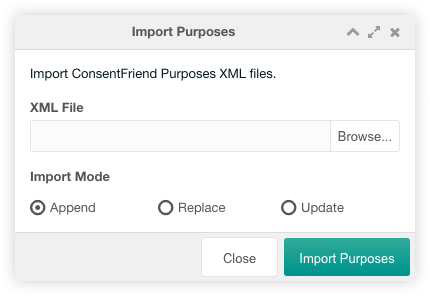
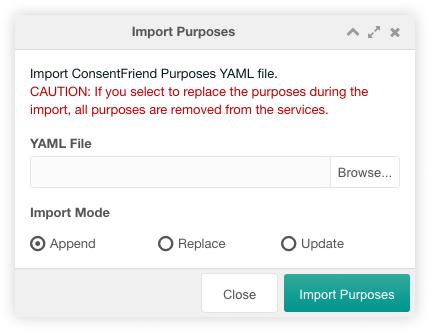
Update docs to 1.3.0

diff --git a/en/02_ConsentFriend/v1/03_Custom_Manager_Page/01_Services.md b/en/02_ConsentFriend/v1/03_Custom_Manager_Page/01_Services.md
@@ -7,13 +7,13 @@ with just a few lines of code.
 
 [![](img/services.png)](img/services.png)
 
-You can create a new service with a click on the create service button on the
+You can create a new service with a click on the New Service button on the
 top left above the services grid.
 
-You can export the services to an xml file with a click on the export services
+You can export the services to a YAML file with a click on the Export Services
 button above the services grid.
 
-You can import a xml file with the services with a click on the import services
+You can import a YAML file with the services with a click on the Import Services
 button above the services grid. In the import window you could select a file to
 import and the import mode. In the append mode the entries in the file are
 appended to the existing services in the grid. In the replace mode the existing
@@ -26,8 +26,8 @@ The grid can be filtered by a search input on the top right above the services
 grid.
 
 Each service can be edited by a click on the edit icon in the row of the
-service. It can be deleted after a confirmation with a click on the trash icon
-in the row of the service.
+service. And it can be deleted after a confirmation with a click on the trash
+icon in the row of the service.
 
 The row of each service shows the service name, the title, some options, and the
 purposes. The service title will be shown in green, when it is retrieved from a

diff --git a/en/02_ConsentFriend/v1/03_Custom_Manager_Page/02_Purposes.md b/en/02_ConsentFriend/v1/03_Custom_Manager_Page/02_Purposes.md
@@ -4,13 +4,13 @@ setting](../04_System_Settings.md) `consentfriend.group_by_purpose` is enabled.
 
 [![](img/purposes.png)](img/purposes.png)
 
-You can create a new purpose with a click on the create purpose button on the top
+You can create a new purpose with a click on the New Purpose button on the top
 left above the purposes grid.
 
-You can export the purposes to an xml file with a click on the export purposes
+You can export the purposes to a YAML file with a click on the Export Purposes
 button above the purposes grid.
 
-You can import a xml file with the purposes with a click on the import purposes
+You can import a YAML file with the purposes with a click on the Import Purposes
 button above the purposes grid. In the import window you could select a file to
 import and the import mode. In the append mode the entries in the file are
 appended to the existing purposes in the grid. In the replace mode the existing
@@ -19,8 +19,8 @@ mode the existing purposes in the grid are updated with the entries in the file.
 
 [![](img/purposes-import.png)](img/purposes-import.png)
 
-The grid can be filtered by a search input on the top right above the
-purposes grid.
+The grid can be filtered by a search input on the top right above the purposes
+grid.
 
 Each purpose can be edited by a click on the edit icon in the row of the
 purpose. And it can be deleted after a confirmation with a click on the trash

diff --git a/en/02_ConsentFriend/v1/03_Custom_Manager_Page/03_Settings.md b/en/02_ConsentFriend/v1/03_Custom_Manager_Page/03_Settings.md
@@ -6,3 +6,20 @@ namespace.
 It is only visible for a user that has the `setting` or the
 `consentfriend_setting` permission enabled. Each setting can be edited the
 same as in the MODX system settings panel.
+
+You can export the ConsentFriend configuration (Services, Purposes, System
+Settings) to a YAML file with a click on the Export Configuration button above the
+purposes grid.
+
+You can import a YAML file with the full ConsentFriend configuration with a
+click on the Import Configuration button above the settings grid. In the import
+window you could select a file to import.
+
+[![](img/configuration-import.png)](img/configuration-import.png)
+
+This ConsentFriend configuration file could be uploaded to
+`{core_path}config/consentfriend/setup.yaml` before installing the ConsentFriend
+package. Then the content of file will be prepared as initial configuration of
+ConsentFriend. If you later on just need to add one service, prepare a
+`{core_path}config/consentfriend/append.yaml` file with this service and the
+content of file will be appended to the consentfriend settings.
